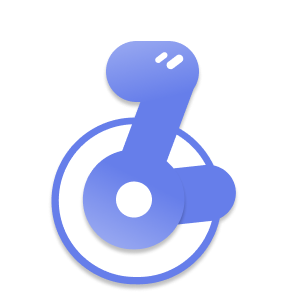
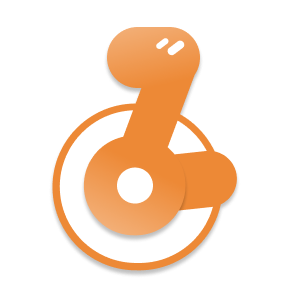
Final

diff --git a/Nuxt/pages/masuk-konser/_id.vue b/Nuxt/pages/masuk-konser/_id.vue
@@ -3,11 +3,11 @@
      
         <div class="w-full p-3 flex">
 
-             <img  class="w-20 h-20" :src="konser.thumbnail" alt="Populer">
+            <img  class="w-20 h-20" :src="konser.thumbnail" alt="Populer">
             
             <div class="px-5">
                    <h1 class="font-bold text-2xl">
-                            {{konser.name}}
+                        {{konser.name}}
                     </h1>
                     <h1 class="font-bold  text-xl text-primary">{{tgl(konser.start)}} - {{tgl(konser.end)}}</h1>
             </div>
@@ -47,13 +47,55 @@
                    </div>
                  </div>
             <!-- Form -->
+
+
+            
+
         </div>
+
+        
+            <iframe class="rounded-xl" width="100%" height="315" src="https://www.youtube.com/embed/Q-EkFs_KrDc" frameborder="0" allow="accelerometer; autoplay; clipboard-write; encrypted-media; gyroscope; picture-in-picture" allowfullscreen></iframe>
+
+            
         <p class="p-4">
-             Deskripsi :
+             Diskusi:
         </p>
-        <p>
-          {{ konser.description}}
-        </p>
+         <ul class="p-3 bg-theme_primary_light rounded-xl">
+            <li class="mt-2 flex flex-wrap">
+              <span class="font-bold w-full">Ari Bahtiar</span>
+              <span>
+                Lorem ipsum dolor sit amet, consectetur adipisicing elit. Sit fugit quam modi! Sint officiis non nisi? Tempore eveniet sint dolores quasi facilis quaerat amet! Tenetur enim ut hic quam cumque.
+              </span>
+            </li>
+
+             <li class="text-right mt-2 flex flex-wrap">
+                <span class="font-bold float-right w-full">Andaru</span>
+                <span>
+                  Lorem ipsum dolor sit amet, consectetur adipisicing elit. Sit fugit quam modi! Sint officiis non nisi? Tempore eveniet sint dolores quasi facilis quaerat amet! Tenetur enim ut hic quam cumque.
+                </span>
+              </li>
+
+               <li class="mt-2 flex flex-wrap">
+                  <span class="font-bold w-full">Admin</span>
+                  <span>
+                    Lorem ipsum dolor sit amet, consectetur adipisicing elit. Sit fugit quam modi! Sint officiis non nisi? Tempore eveniet sint dolores quasi facilis quaerat amet! Tenetur enim ut hic quam cumque.
+                  </span>
+                </li>
+
+                <li class="mt-2 flex flex-wrap">
+                  <span class="font-bold w-full">User Lain</span>
+                  <span>
+                    Lorem ipsum dolor sit amet, consectetur adipisicing elit. Sit fugit quam modi! Sint officiis non nisi? Tempore eveniet sint dolores quasi facilis quaerat amet! Tenetur enim ut hic quam cumque.
+                  </span>
+                </li>
+                <li>
+                    <div class="flex p-3 w-full flex-wrap">
+                        <label class="w-full font-bold py-2">Komentar</label>
+                        <input type="text" class="bg-theme_primary w-full p-3 rounded-lg px-5" placeholder="Komentar" >
+                    </div>
+                </li>
+
+          </ul>
 
   </div>
 </template>
@@ -63,8 +105,17 @@ export default {
   scrollToTop: true,
   layout: 'app',
   created(){
-    // get konser
-    this.getData()
+    // Cek Konser
+    this.$axios.get(this.$store.state.api+"check-ticket/"+this.$route.params.id)
+      .then(res => {
+        console.log(res.data.status)
+          if(res.data.status == "success"){
+            this.getData()
+          }else{
+            this.$router.push("/tiket-saya")
+          }
+      })
+
   },
        methods:{
         tgl(req){

diff --git a/Nuxt/components/konser-saya.vue b/Nuxt/components/konser-saya.vue
@@ -10,18 +10,11 @@
                 {{ tgl(data.start)}}
             </h1>
             
-          
-             <button class="font-bold  text-primary lg:text-lg  p-1 rounded-full mt-2">
-                30K Bergabung
+             <button class="text-primary border-2  border-primary px-6 p-1 rounded-full mt-3">
+               Lihat Konser
             </button>
 
 
-             <button class="bg-primary float-right rounded-full text-secondary p-1 px-4 text-xs">
-               Edit
-              </button>
-
-
-            
         </div>
 
        </nuxt-link>
@@ -34,11 +27,6 @@ export default {
         tgl(req){
             let arrbulan = ["Januari","Februari","Maret","April","Mei","Juni","Juli","Agustus","September","Oktober","November","Desember"];
             let date = new Date(req);
-            // millisecond = date.getMilliseconds();
-            // detik = date.getSeconds();
-            // menit = date.getMinutes();
-            // jam = date.getHours();
-            // hari = date.getDay();
             let tanggal = date.getDate();
             let bulan = date.getMonth();
             let tahun = date.getFullYear();

diff --git a/Nuxt/components/tiket-saya.vue b/Nuxt/components/tiket-saya.vue
@@ -19,11 +19,11 @@
 
         <div class="w-full ">
             <button class=" float-right  text-primary border-2  border-primary px-6 p-1 rounded-full mt-3">
-               Masuk Konser
+               Lihat Konser
             </button>
             
-            <button v-if="data.status == 'Lunas'" class="hover:bg-primary_dark border-2 border-primary text-secondary bg-primary px-6 p-1 rounded-full mt-3">
-               Lunas
+            <button v-if="data.status == 'Verified'" class="hover:bg-primary_dark border-2 border-primary text-secondary bg-primary px-6 p-1 rounded-full mt-3">
+               Verified
             </button>
               <button v-else class="bg-theme_primary_dark border-2 border-primary text-primary px-6 p-1 rounded-full mt-3">
                Pending

diff --git a/Nuxt/pages/konser/_id.vue b/Nuxt/pages/konser/_id.vue
@@ -1,6 +1,6 @@
 <template>
   <div class="w-full pt-16 p-2 mb-20" v-if="konser">
-        <img  class="w-full lg:w-2/3 mx-auto" :src="konser.thumbnail" alt="Populer">
+        <img  class="w-full lg:w-2/3 mx-auto rounded-xl" :src="konser.thumbnail" alt="Populer">
         <div class="w-full p-3">
            
             <div class="flex flex-wrap py-3">
@@ -30,6 +30,7 @@
             </h1>
           <h1 class="font-bold  text-xl text-primary">{{tgl(konser.start)}} - {{tgl(konser.end)}}</h1>
             
+
             <p class="py-2">
                 {{ konser.description}}
             </p>

diff --git a/Nuxt/components/konser.vue b/Nuxt/components/konser.vue
@@ -2,7 +2,7 @@
     <div >
        <nuxt-link class="flex bg-theme_primary_light hover:bg-theme_primary_dark p-3 rounded-xl mb-2" :to="'/konser/'+data.id">
        <div class="w-1/3">
-            <img width="150px" height="150px" :src="data.thumbnail" alt="Populer">
+            <img width="150px" height="150px" class="rounded-xl" :src="data.thumbnail" alt="Populer">
        </div>
         <div class="w-2/3 p-3">
             <h1 class="font-bold text-lg lg:text-2xl">{{ data.name }}</h1>

diff --git a/Nuxt/store/index.js b/Nuxt/store/index.js
@@ -9,7 +9,7 @@ const createStore = () => {
         api: 'http://localhost:8000/api/',
         settings: false,
         theme: localStorage.getItem("theme") || 'theme-light',
-        primaryColor: localStorage.getItem("primary-color") || 'primary-indigo',
+        primaryColor: localStorage.getItem("primary-color") || 'primary-orange',
         loading: false,
         kategori: [],
         jenis_konser: [],

diff --git a/Laravel/routes/api.php b/Laravel/routes/api.php
@@ -42,21 +42,20 @@ Route::middleware('auth:api')->group(function(){
     Route::post('/concert/create','ConcertController@Create');
     Route::post('/concert/update', 'ConcertController@Update');
     Route::post('/concert/delete/{id}', 'ConcertController@Delete');
+    // 
     Route::get('/my-concert', 'ConcertController@MyConcert');
 
      // Cost Tiket
      Route::post('/cost/{concert_id}', 'CostController@Create');// Buat Cost tiket
      Route::post('/cost/delete/{id}', 'CostController@Delete'); // Hapus Cost
 
-     Route::get('/buy-ticket/{concert_id}/{cost_id}', 'TicketController@Buy'); // Beli Tiket
-    // Get Tiket Order dari Yang Belum Dibayar
+    Route::get('/buy-ticket/{concert_id}/{cost_id}', 'TicketController@Buy'); 
     Route::get('/my-ticket', 'ConcertController@MyTicket');
 
 
+    Route::get('/check-ticket/{id}', 'TicketController@cekTicket');
 
     Route::get('/like/{id}', 'HelperController@Like');
-
-
 
     
 });

diff --git a/Laravel/app/Http/Controllers/ConcertController.php b/Laravel/app/Http/Controllers/ConcertController.php
@@ -195,7 +195,16 @@ class ConcertController extends Controller
 	}
 	// 
 	public function MyConcert(){
-		return json_encode(Concert::orderBy("created_at","DESC")->where("user_id",Auth::id())->paginate(10));
+		return json_encode(Concert::orderBy("created_at","DESC")
+		->where("user_id",Auth::id())
+		->orWhere(function($query) {
+			$listId = TicketConcert::get()
+			->where("user_id",Auth::id())
+			->where("status","Verified")
+			->pluck("concert_id")->toArray();
+			$query->whereIn('id', $listId);
+		})
+		->paginate(10));
 	}
 
     public function MyTicket(){

diff --git a/Laravel/app/Http/Controllers/TicketController.php b/Laravel/app/Http/Controllers/TicketController.php
@@ -25,7 +25,29 @@ class TicketController extends Controller
 			]);
 		}
     	
-    }
+	}
+	
+	public function cekTicket($id){
+		if(Auth::id()){
+			$ticket = TicketConcert::
+			 where("concert_id",$id)
+			->where("status","Verified")
+			->where("user_id",Auth::id())->first();
+			
+			return json_encode($ticket);
+
+			if($ticket){
+				return response()->json([
+					"status"=>"success"
+				]);
+			}else{
+				
+				return response()->json([
+					"status"=> "error"
+				]);
+			}
+		}
+	}
 
     public function Delete($id)
     {
